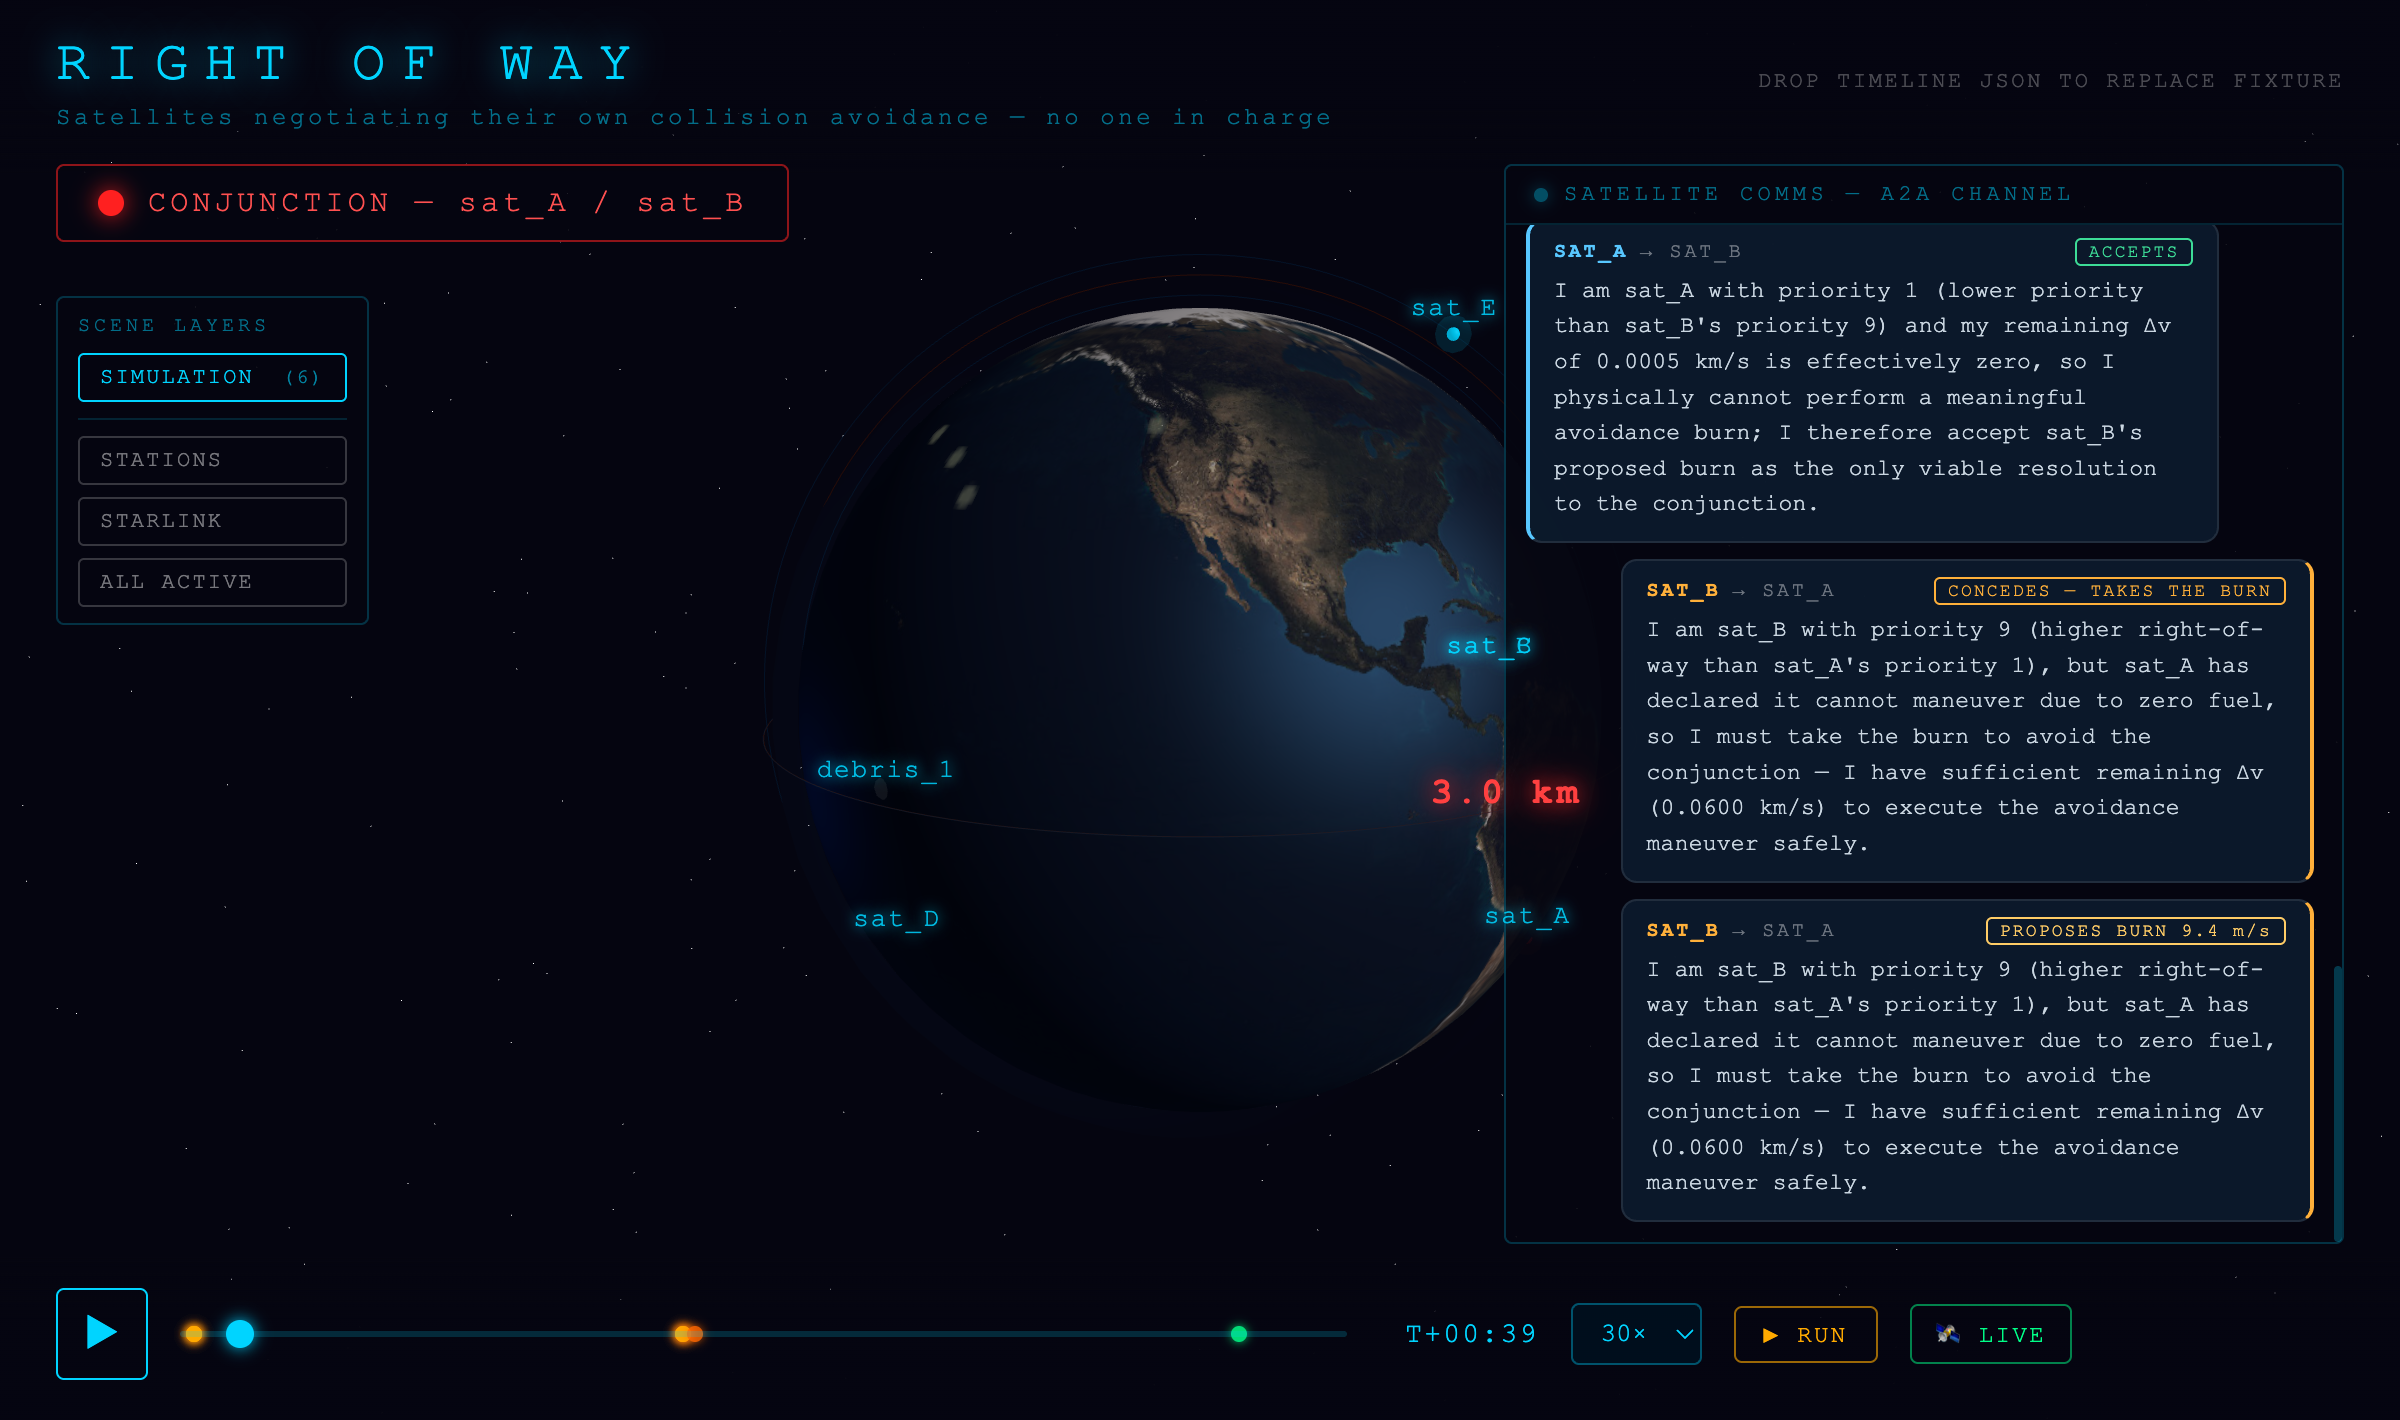
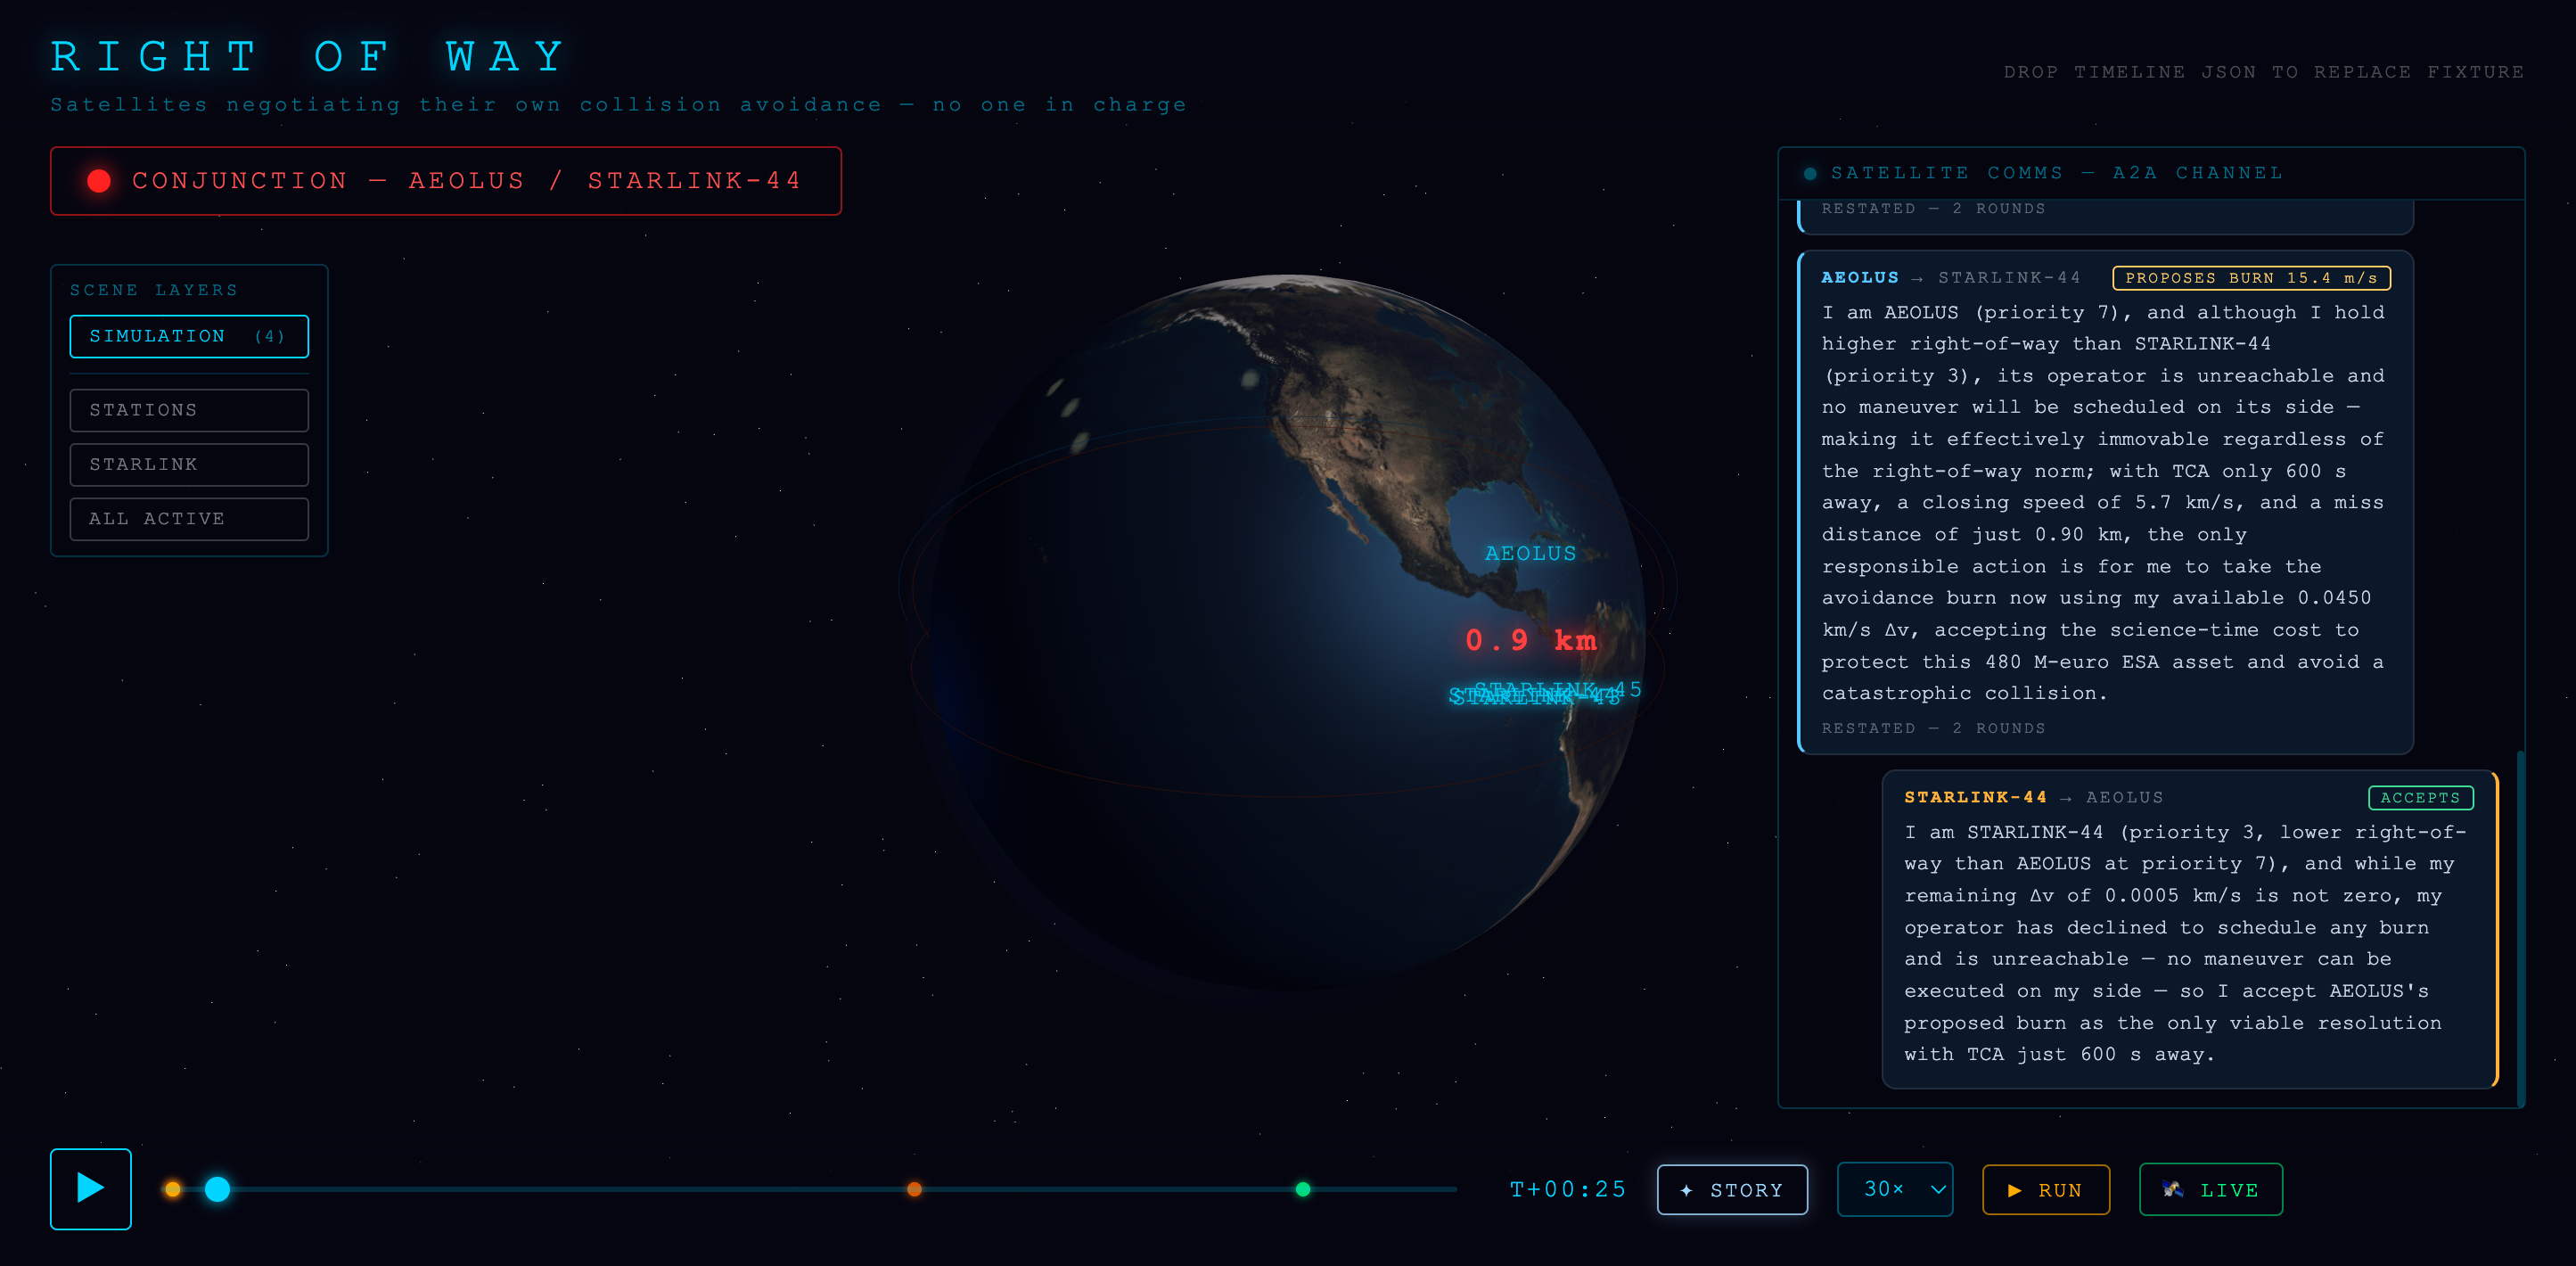
docs: reposition README — the judge is physics; lead with the 2019 incident
Positioning per product review: the ownable claim is LLM negotiation under
a ground-truth verifier, not 'a demonstrator'. Open with the Aeolus /
Starlink-44 email incident and its agent re-run (new hero screenshot),
keep the synthetic forced-trade as the load-bearing proof, demote the
topology toggle to the eval harness, document story mode + viz URL
params, and carry the reconstruction honesty note.

diff --git a/README.md b/README.md
@@ -1,41 +1,25 @@
 # Right of Way
-### Agentic air-traffic control for space 🛰️
+### LLM agents negotiating orbital collision avoidance — under a judge that is physics, not vibes 🛰️
 
-> **We gave satellites a group chat to keep them from crashing into each other.**
+> **In September 2019, a €480M ESA satellite and a Starlink nearly collided — and the two operators coordinated the dodge by email.** SpaceX declined to maneuver (a paging bug hid ESA's follow-ups); Aeolus burned half an orbit before closest approach. In 2026 there is *still* no automated cross-operator protocol. Right of Way re-runs that incident with Claude agents — and a deterministic orbital-mechanics referee that rejects any deal that doesn't actually clear.
 
-![Right of Way live: two satellites on a collision course over a real NASA Earth, while the A2A comms channel shows the agents negotiating in plain English — sat_B conceding right-of-way and proposing the avoidance burn](docs/images/hero-conjunction.png)
+![The 2019 Aeolus / Starlink-44 conjunction re-run by agents: 0.9 km miss over a real NASA Earth, while the A2A comms channel shows AEOLUS conceding right-of-way in plain English because STARLINK-44's operator is unreachable](docs/images/hero-conjunction.png)
 
-When two satellites from different operators drift onto a collision course, there's no mission control to settle it — each one only knows its own fuel, its own mission, and wants the *other* one to move. **Right of Way turns them into AI agents that negotiate their own avoidance maneuvers — peer-to-peer, no central planner** — while a **deterministic physics engine referees every deal** and catches the moment one satellite's dodge creates the *next* near-miss. *Kessler syndrome, handled by conversation.*
+The comms channel above is the actual model output. AEOLUS holds right-of-way; STARLINK-44's agent explains that its operator "has declined to schedule any burn and is unreachable via the on-call system"; AEOLUS concedes — *"the only responsible action is for me to take the avoidance burn now… accepting the science-time cost to protect this 480 M-euro ESA asset."* Then the physics referee verifies the burn clears, and the sky is provably safe.
 
-And here's what makes it *agentic* — the satellites talk it out, in plain English, over A2A while the physics engine referees:
+## Why this is interesting to AI people (not just space people)
 
-![Two satellites negotiating a collision-avoidance maneuver in plain English over A2A, with the physics engine refereeing](docs/images/negotiation-chat.png)
+Everyone distrusts LLM-as-judge. This is the opposite construction: **LLM agents negotiate a real, adversarial, multi-party decision — and the judge is a deterministic physics engine that cannot be sweet-talked.**
 
-> *Built at the **Multi-Agent Orchestration Build Day** · The Engine, Cambridge MA · May 31, 2026.*
+- Agents reason about *intent, priority, norms, and constraints* — who should move, and why.
+- The referee owns *feasibility*: every proposed burn is propagated (exact two-body, universal variables), re-screened for conjunctions, and checked against the mover's fuel budget. A burn that doesn't clear is rejected, whatever the transcript says.
+- The loop **re-screens after every maneuver**: if a dodge creates a *new* near-miss with a third satellite, the referee throws the agents back to the table. A "solution" that creates a new problem doesn't count as a solution.
 
----
+The one-sentence identity: *a testbed for LLM negotiation under a ground-truth verifier.* The satellites are the (real, unsolved) application.
 
-## Why this isn't just a physics sim
+## The synthetic proof that the agents are load-bearing
 
-Computing *one* satellite's avoidance burn is solved, deterministic math — you should never want an LLM doing orbital mechanics. The hard part is the **coupling between operators who share no central authority, no common objective, and won't take each other's math on faith.** One satellite's dodge can shove it into a *third* satellite's path. That isn't a computation — it's a **negotiation under partial information with conflicting goals.** Which is exactly what multi-agent systems are for.
-
-And the mechanism generalizes to any fleet with no central boss: drones (the FAA's decentralized UTM / Part 108 framework lands ~2026), self-driving cars, autonomous ships.
-
-## The demo that proves the agents are load-bearing
-
-The naive rule is *"lowest-priority satellite yields."* So we broke it: the lowest-priority satellite (`sat_A`) is **out of fuel and physically cannot move**, forcing the higher-priority `sat_B` to give up right-of-way and dodge anyway. **Nobody hard-codes this.** Listen in on the actual A2A exchange:
-
-```
-sat_A → sat_B   Right-of-way says I should give way to you — but my Δv budget is ~0.
-                I physically cannot maneuver. Requesting a trade.
-sat_B → sat_A   I hold right-of-way (priority 9 vs your 1). Requesting you give way.
-sat_B → sat_A   Understood — you have no fuel and can't move. Right-of-way is moot
-                against a sat that physically can't yield. I'll trade and take the burn.
-sat_B → sat_A   PROPOSE burn (+13.8, 0, −2.8) m/s @ t+420s
-sat_A → sat_B   Your burn clears our conjunction. Accepted.
-```
-
-The trade **emerges from the conversation** — a test proves that giving `sat_A` fuel flips who moves, so it's negotiation, not an `if`-statement. Then `sat_B`'s dodge nearly clips a *third* satellite, the physics referee catches it, and they renegotiate. Here's a full run (`python -m row.orchestrator`):
+The naive rule is *"lowest-priority satellite yields."* The forced-trade scenario breaks it: the lowest-priority satellite (`sat_A`) is **out of fuel and physically cannot move**, so the high-priority `sat_B` must concede right-of-way and dodge anyway. **Nobody hard-codes this** — a test proves that giving `sat_A` fuel flips who moves, so it's negotiation, not an `if`-statement. Then `sat_B`'s dodge nearly clips a third satellite, the re-screen catches it, and they renegotiate:
 
 ```
 topology=hierarchical  converged=True  iterations=2  total_dv=31.4 m/s  rounds=2
@@ -46,7 +30,7 @@ topology=hierarchical  converged=True  iterations=2  total_dv=31.4 m/s  rounds=2
   t=  897.1  resolved                                               ← provably clear
 ```
 
-![The RESOLVED outcome card — 31.4 m/s total Δv, 2 conjunctions cleared in 2 maneuvers over 7 negotiation rounds, swarm topology, the orbit provably clear](docs/images/all-clear.png)
+![The RESOLVED outcome card — total Δv, conjunctions cleared, maneuvers, negotiation rounds, topology](docs/images/all-clear.png)
 
 ## How it works
 
@@ -58,38 +42,47 @@ topology=hierarchical  converged=True  iterations=2  total_dv=31.4 m/s  rounds=2
         ▲                                                        │
         └──────── new conjunction? back to the table ◀──────────┘
                           ↓ provably clear
-                       emit Timeline → 3D viz
+                       emit Timeline → 3D viz (story mode)
 ```
 
-- **A2A** — agents negotiate by passing `propose / counter / accept / yield` messages. The bus just routes; the **agents** decide who moves.
+- **A2A** — agents negotiate by passing `propose / counter / accept / yield` messages. The bus just routes; the **agents** decide who moves. Every message lands on the timeline in the agent's own words.
 - **MCP** — the physics referee is a real [FastMCP](https://modelcontextprotocol.io) server exposing `propagate / screen_conjunctions / apply_maneuver` as agent-callable tools. Agents call ground-truth orbital mechanics instead of guessing.
-- **Two topologies, one flag** — runs as an emergent peer-to-peer **swarm** *or* a **hierarchical** coordinator. Swarm stalls → fall back to hierarchical → flagged safe no-op. The demo can't hard-fail.
-- **Verifier-first** — LLM-agents reason about *intent, priority, and strategy*; the deterministic core owns *feasibility* (exact two-body propagation via universal variables, conjunction screening, fuel accounting). Knowing what to delegate to the model vs. to deterministic compute **is** the design.
+- **Verifier-first** — LLM-agents reason about *intent, priority, and strategy*; the deterministic core owns *feasibility*. Knowing what to delegate to the model vs. to deterministic compute **is** the design.
+- **Claude (Sonnet 4.6)** is each satellite's brain (tool-use + prompt caching), with a deterministic offline fallback so everything runs with zero API keys. Two topologies (peer-to-peer swarm / hierarchical coordinator) and a deterministic fallback chain mean the pipeline can't hard-fail — details live in the eval harness.
 
 ## Run it
 
 ```bash
 uv sync
 
-uv run python -m row.agents.demo         # the agents negotiating — both topologies + the forced-trade transcript
-uv run python -m row.orchestrator        # the full verify-and-repair run → emits web/public/timeline.json
+# the Sept 2019 Aeolus / Starlink-44 re-enactment (real names, reconstructed geometry)
+uv run python -m row.orchestrator --scenario aeolus --topology swarm
+
+# the synthetic forced-trade proof (the "it's not an if-statement" scenario)
+uv run python -m row.orchestrator --topology swarm
+
+uv run python -m row.agents.demo         # both topologies + the forced-trade transcript, in your terminal
 uv run python -m row.physics.demo        # the deterministic referee: propagation, screening, the avoidance burn
 uv run python -m row.physics.mcp_server  # the physics core as a real MCP server (stdio transport)
 
 # the same run under W&B Weave — every negotiate() + physics call traced
 uv run python -m row.eval --topology swarm   # add --mock for the offline brain
 uv run python -m row.eval --leaderboard      # swarm/hierarchical × mock/claude scored
-uv run python -m row.eval --guardrail        # the over-budget referee guardrail
 
-cd web && pnpm install && pnpm dev       # the 3D visualization — plays back the emitted Timeline
+cd web && pnpm install && pnpm dev       # the 3D viz — plays the emitted Timeline in story mode
 ```
+
+The viz opens on the Aeolus re-enactment and narrates it: **story mode** freezes the orbital clock at each negotiation, plays the messages beat-by-beat, and shows the referee verifying every burn. URL params: `?timeline=forced-trade` (the synthetic scenario), `?autoplay`, `?clean` (hide the chrome — for recording clips).
+
+> **Honesty note on the re-enactment:** it reconstructs the documented *encounter geometry* (320 km, crossing planes, sub-km predicted miss, TCA 2019-09-02 ~11:02 UTC) under two-body dynamics — it is not archival TLE propagation. Starlink-44 could physically maneuver in 2019; SpaceX declined / was unreachable, and we model "will not / cannot coordinate a burn" as a ~zero maneuver budget while the agent's prompt carries the real operational story. See `row/scenario_real.py`.
 
 ## Architecture
 
 ```
 row/
 ├── contracts.py            # pydantic v2 data models — the single source of truth
-├── scenario.py             # generate_scenario() — the forced-trade constellation
+├── scenario.py             # generate_scenario() — the synthetic forced-trade constellation
+├── scenario_real.py        # generate_aeolus_scenario() — the Sept 2019 re-enactment
 ├── physics/                # the deterministic referee (NumPy, two-body universal variables)
 │   ├── core.py             #   PhysicsCore: propagate / screen_conjunctions / apply_maneuver
 │   ├── screening.py        #   coarse sampling + golden-section refinement per close approach
@@ -101,14 +94,14 @@ row/
     ├── swarm.py            #   emergent peer-to-peer negotiation, no coordinator
     ├── hierarchical.py     #   central-coordinator fallback
     └── llm.py              #   ClaudeBrain (Sonnet 4.6) + deterministic MockBrain fallback
-web/                        # three.js + Vite 3D orbit viz (real NASA Blue Marble / live GIBS tiles)
+web/                        # three.js + Vite 3D orbit viz (story mode, comms channel, captions)
 ```
 
-> **Built in parallel.** The four workstreams — physics core, MCP server, the Claude-backed A2A agent layer, and the verify-and-repair orchestrator — were developed concurrently in separate git worktrees against locked `pydantic` contracts, then merged to `main`. A multi-agent build process for a multi-agent product. The orchestrator runs the real peer-to-peer agents by default and falls back to deterministic reference negotiators if the agent layer is unavailable, so the pipeline always runs.
+> **Built in parallel.** The four workstreams — physics core, MCP server, the Claude-backed A2A agent layer, and the verify-and-repair orchestrator — were developed concurrently in separate git worktrees against locked `pydantic` contracts, then merged to `main`. A multi-agent build process for a multi-agent product.
 
 ## Sponsor tools
 
-- **W&B Weave** — traces the full multi-agent run (every `negotiate()`, every physics `screen_conjunctions` / `apply_maneuver`, every repair iteration) so an opaque agent loop becomes a transcript you can read and evaluate. The verifier-first principle becomes *visible*: each candidate burn an agent proposes is a physics call nested under its negotiation, and an over-budget burn surfaces as a referee `ValueError` right in the trace. A Weave **evaluation + leaderboard** scores `swarm` vs `hierarchical` × `MockBrain` vs `ClaudeBrain` on six metrics (conjunctions resolved, new conjunctions created, total Δv, rounds-to-converge, iterations, and a budget guardrail). Instrumentation is **additive** — a thin `row/eval/` wrapper around the seams the loop already exposes, touching neither the contracts nor the run loop. See [`row/eval/`](row/eval/) (`uv run python -m row.eval --leaderboard`).
+- **W&B Weave** — traces the full multi-agent run (every `negotiate()`, every physics `screen_conjunctions` / `apply_maneuver`, every repair iteration) so an opaque agent loop becomes a transcript you can read and evaluate. A Weave **evaluation + leaderboard** scores `swarm` vs `hierarchical` × `MockBrain` vs `ClaudeBrain` on six metrics (conjunctions resolved, new conjunctions created, total Δv, rounds-to-converge, iterations, and a budget guardrail). Instrumentation is **additive** — a thin `row/eval/` wrapper around the seams the loop already exposes. See [`row/eval/`](row/eval/).
 - **Anthropic Claude (Sonnet 4.6)** — the reasoning core of each satellite-agent (tool-use + prompt caching, with a deterministic offline fallback so the demo never breaks). Claude Code was also the *build* harness: parallel agent sessions, one per workstream, each in its own worktree.
 - **MCP** — the physics referee as a real FastMCP tool server, the thing that keeps the LLM-agents honest.
 
@@ -118,4 +111,4 @@ web/                        # three.js + Vite 3D orbit viz (real NASA Blue Marbl
 
 ---
 
-*Right of Way is a research demonstrator of a coordination mechanism for a real, unsolved gap — cross-operator collision avoidance with no shared maneuvering authority — not a flight-ready system.*
+*Right of Way is a research demonstrator of a coordination mechanism for a real, unsolved gap — cross-operator collision avoidance with no shared maneuvering authority — not a flight-ready system. The mechanism generalizes to any fleet with no central boss: drones (FAA UTM / Part 108), AVs, autonomous ships.*